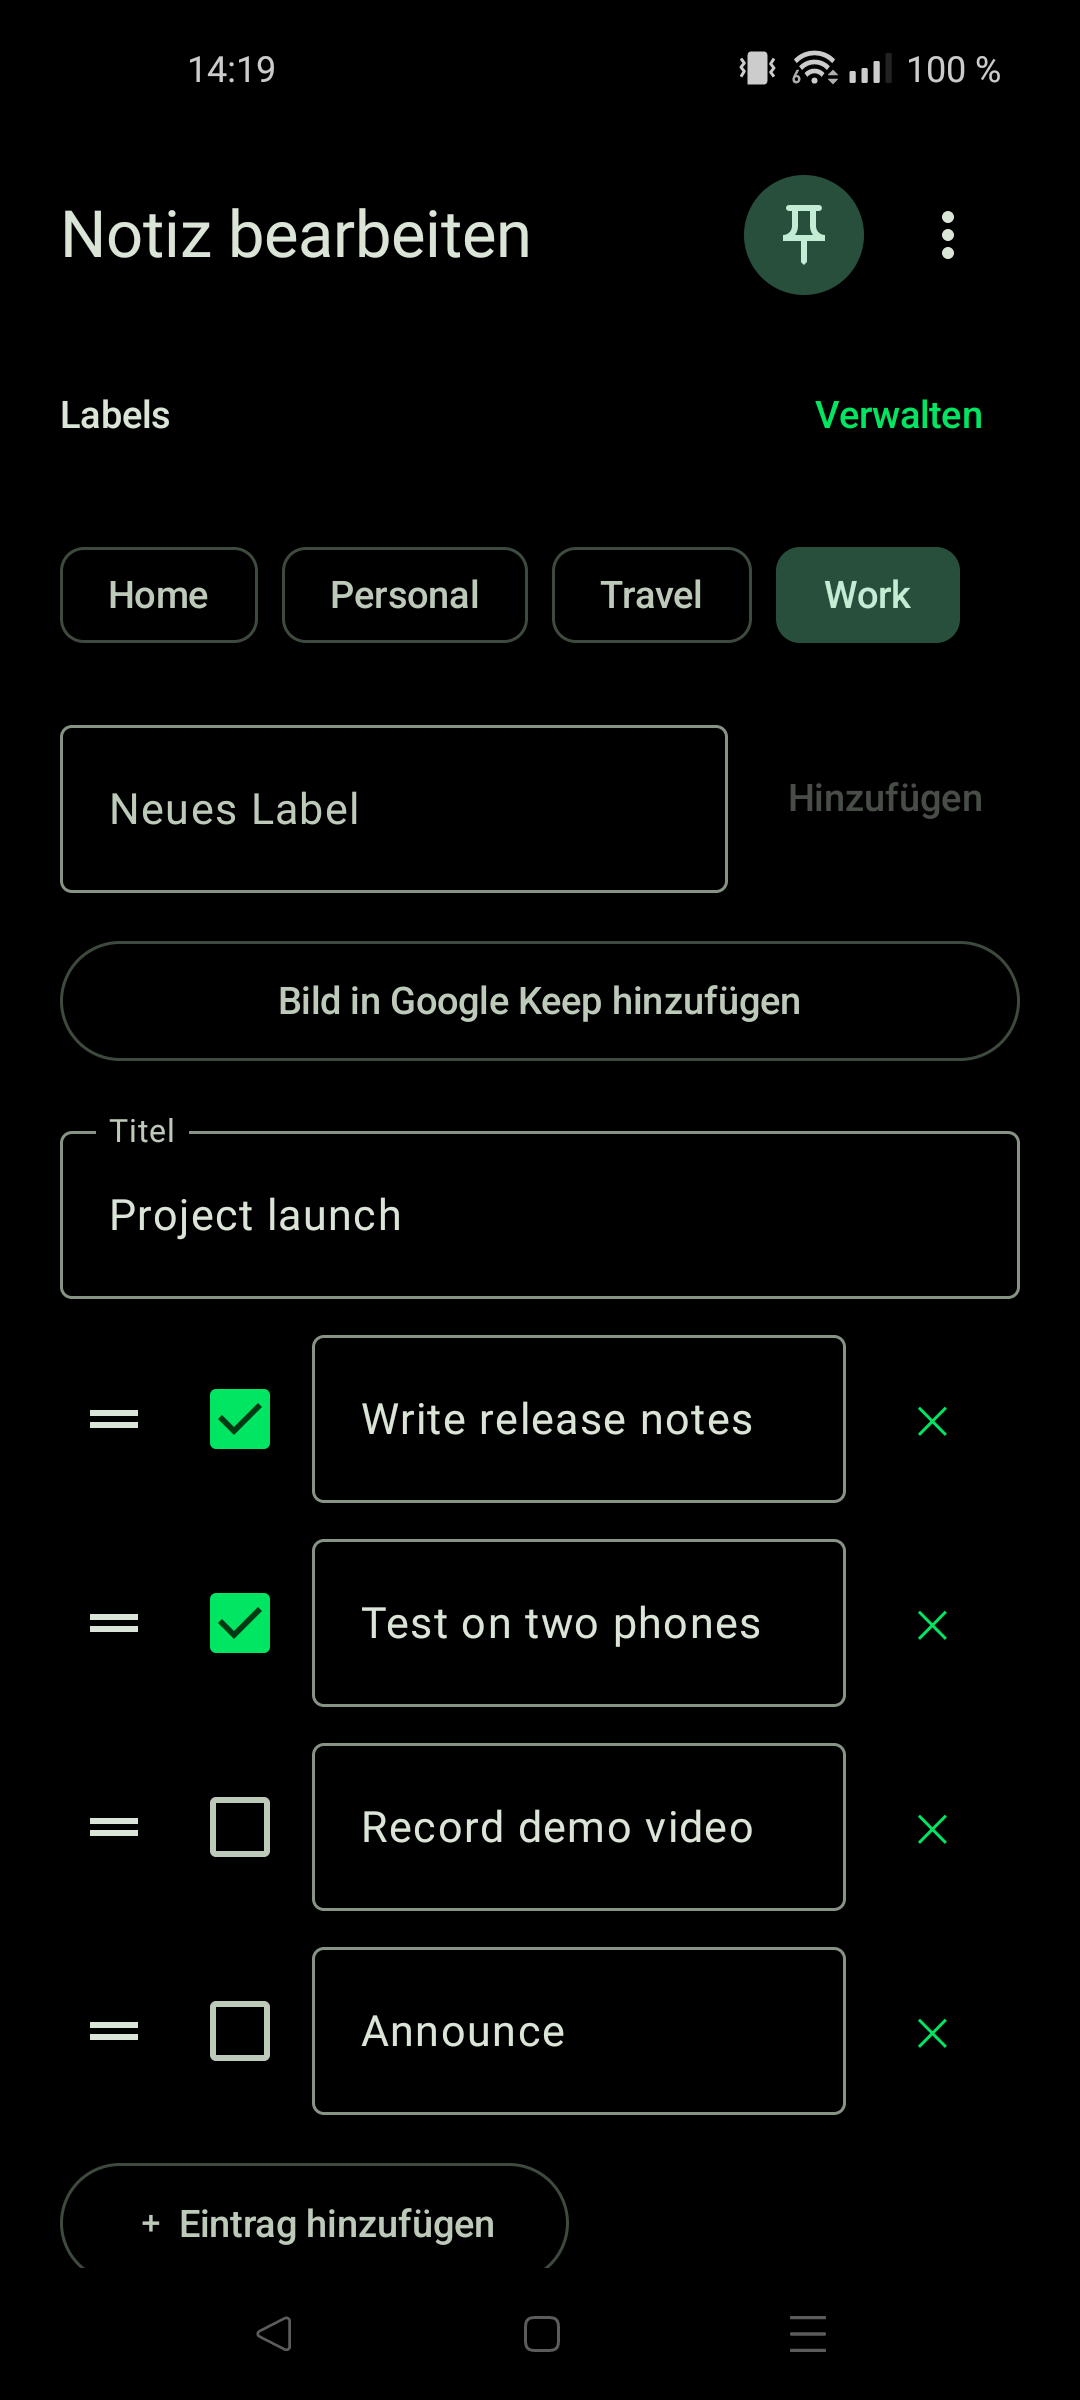
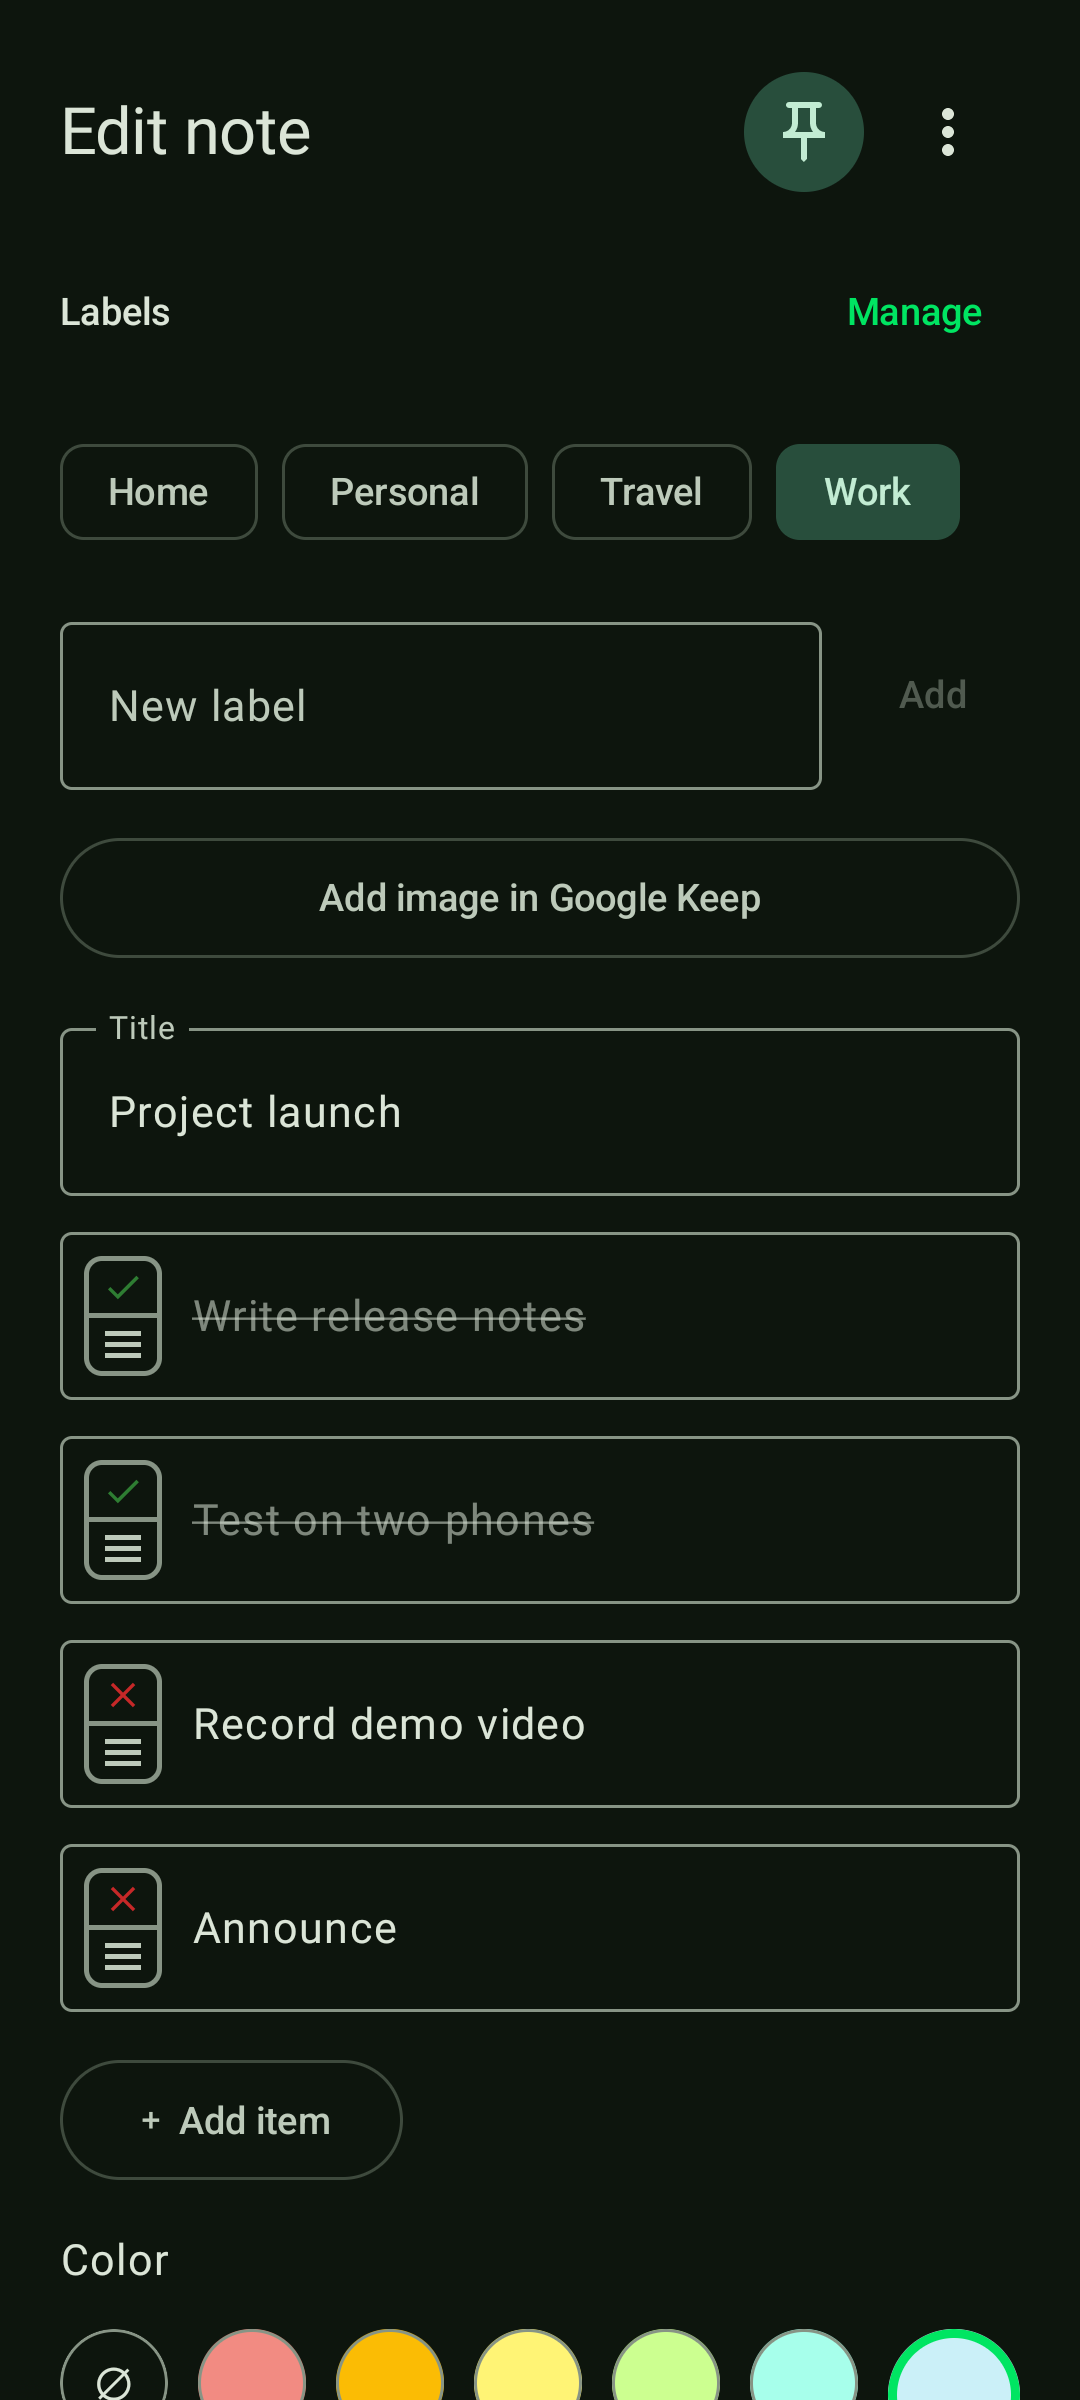
New screenshots in English (demo mode, full screen), README table updated, demo mode no longer shows a changed-in-Keep notice

diff --git a/app/src/main/java/com/gkeepdroid/Theme.kt b/app/src/main/java/com/gkeepdroid/Theme.kt
@@ -49,16 +49,35 @@ fun KeepTheme(themeMode: Int, opaque: Boolean = true, content: @Composable () ->
     }
 
     val view = LocalView.current
-    // Demo mode (for screenshots) runs full screen: the status bar is hidden, and a swipe from the top brings it back.
+    // Demo mode (for screenshots) runs full screen: the status bar and the three buttons are hidden, and a swipe from the edge brings them back.
     val fullScreen = DemoNotes.version.intValue >= 0 && DemoNotes.enabled(context)
+    // Switching the demo mode on or off changes how the window is laid out; a fresh activity does that cleanly.
+    val shownFullScreen = androidx.compose.runtime.remember { androidx.compose.runtime.mutableStateOf(fullScreen) }
     SideEffect {
+        if (shownFullScreen.value != fullScreen) {
+            shownFullScreen.value = fullScreen
+            (view.context as Activity).recreate()
+            return@SideEffect
+        }
         val window = (view.context as Activity).window
+        // The window sits below the system bars; hiding the status bar alone leaves its strip empty, so demo mode lets the app draw there.
+        WindowCompat.setDecorFitsSystemWindows(window, !fullScreen)
         WindowCompat.getInsetsController(window, view).apply {
             isAppearanceLightStatusBars = !dark
             isAppearanceLightNavigationBars = !dark
             systemBarsBehavior = androidx.core.view.WindowInsetsControllerCompat.BEHAVIOR_SHOW_TRANSIENT_BARS_BY_SWIPE
-            if (fullScreen) hide(androidx.core.view.WindowInsetsCompat.Type.statusBars())
-            else show(androidx.core.view.WindowInsetsCompat.Type.statusBars())
+            if (fullScreen) hide(androidx.core.view.WindowInsetsCompat.Type.systemBars())
+            else show(androidx.core.view.WindowInsetsCompat.Type.systemBars())
+        }
+        // Hiding the bar is not enough on a phone with a camera hole: the strip next to it stays black unless the app may draw there.
+        if (Build.VERSION.SDK_INT >= 28) {
+            val attributes = window.attributes
+            attributes.layoutInDisplayCutoutMode = if (fullScreen) {
+                android.view.WindowManager.LayoutParams.LAYOUT_IN_DISPLAY_CUTOUT_MODE_SHORT_EDGES
+            } else {
+                android.view.WindowManager.LayoutParams.LAYOUT_IN_DISPLAY_CUTOUT_MODE_DEFAULT
+            }
+            window.attributes = attributes
         }
     }
 

diff --git a/app/src/main/java/com/gkeepdroid/EditNoteActivity.kt b/app/src/main/java/com/gkeepdroid/EditNoteActivity.kt
@@ -159,6 +159,11 @@ class EditNoteActivity : ComponentActivity() {
 
         LaunchedEffect(Unit) {
             if (noteId == null) return@LaunchedEffect
+            // The sample notes of the demo mode are made anew every time they are read, so they would always look "changed in Keep".
+            if (DemoNotes.enabled(this@EditNoteActivity)) {
+                loaded = true
+                return@LaunchedEffect
+            }
             val recentlySynced = cached != null && System.currentTimeMillis() - SyncPolicy.lastSuccess(this@EditNoteActivity) < 90_000
             if (!recentlySynced) {
                 try {

diff --git a/README.md b/README.md
@@ -4,9 +4,9 @@ An unofficial Android app for your Google Keep notes: home screen widgets with a
 
 > **Not affiliated with Google.** GKeepDroid is an independent, unofficial project. Google Keep and Google are trademarks of Google LLC. This app is neither made, endorsed nor supported by Google.
 
-| Notes | Editor | Button bar | Synchronization |
-|---|---|---|---|
-| <img src="docs/screenshots/notes.png" width="200"> | <img src="docs/screenshots/editor.png" width="200"> | <img src="docs/screenshots/button-bar.png" width="200"> | <img src="docs/screenshots/sync.png" width="200"> |
+| Notes | Checklist editor | Swipe gestures | Settings | Synchronization | Button bar |
+|---|---|---|---|---|---|
+| <img src="docs/screenshots/notes.png" width="150"> | <img src="docs/screenshots/editor.png" width="150"> | <img src="docs/screenshots/gestures.png" width="150"> | <img src="docs/screenshots/settings.png" width="150"> | <img src="docs/screenshots/sync.png" width="150"> | <img src="docs/screenshots/button-bar.png" width="150"> |
 
 ## Features
 
